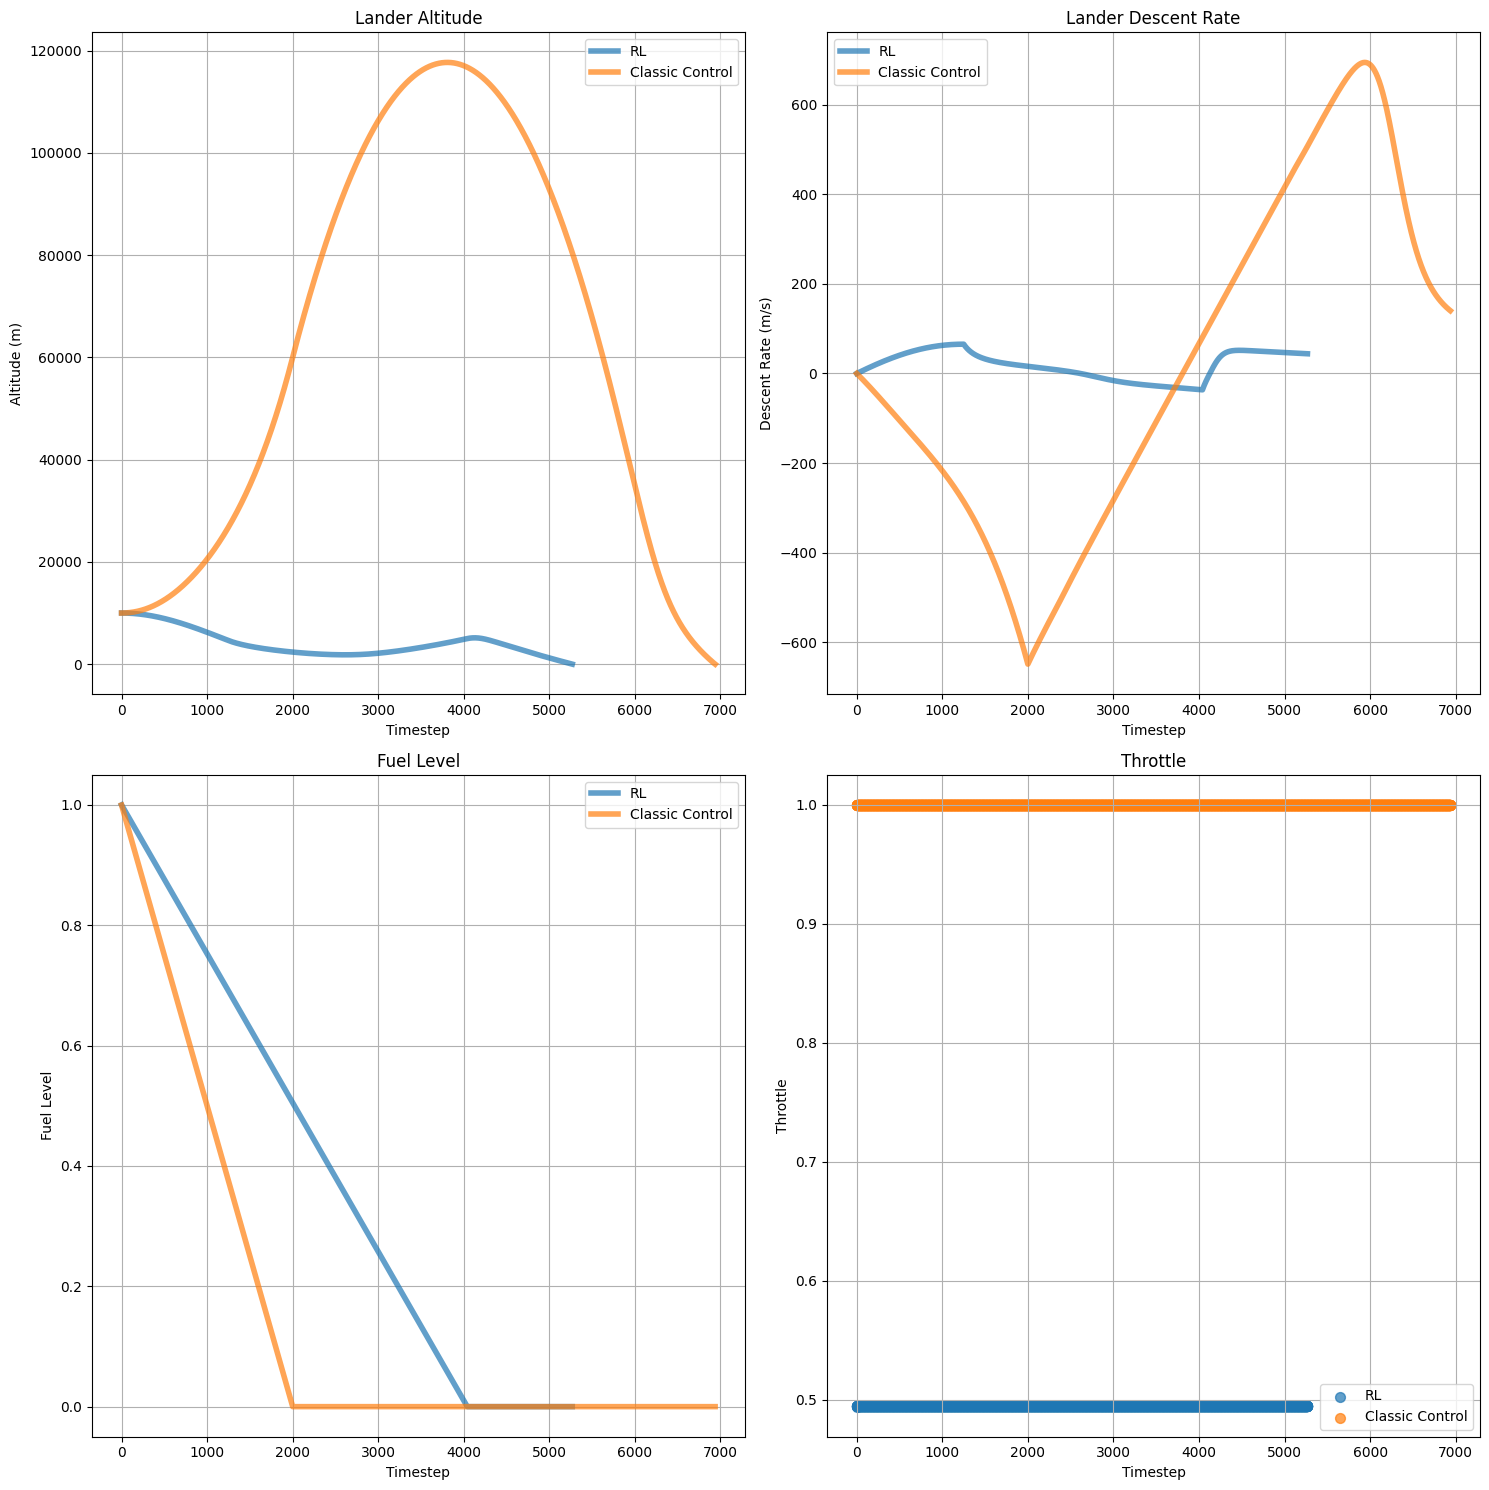
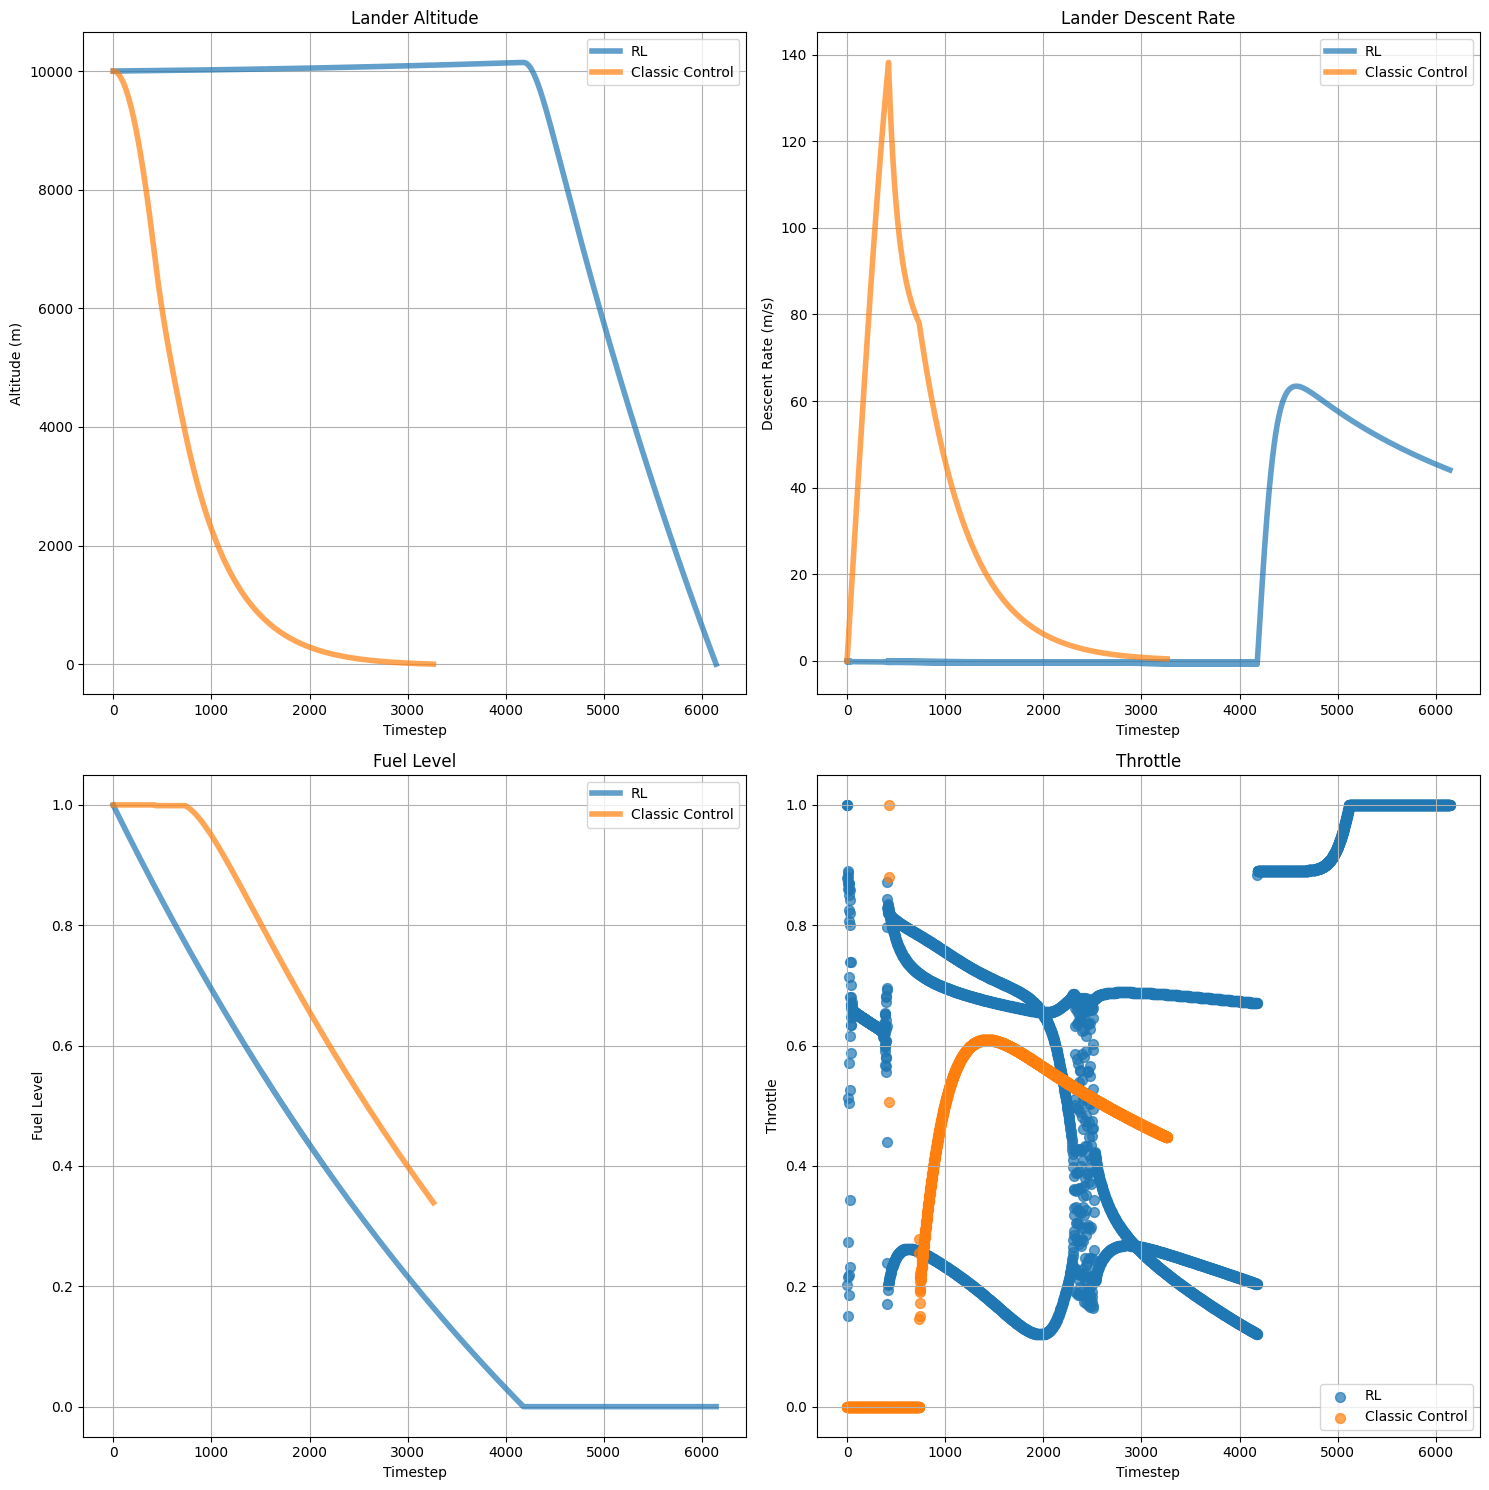
added sparse rewards

diff --git a/src/lander_py/benchmark_agents.py b/src/lander_py/benchmark_agents.py
@@ -138,93 +138,6 @@ def plot_single_episode_comparison(rl_data, classic_data):
 
 
 # %%
-# def run_multiple_comparison_episodes(model_path, n_episodes=10, max_steps=10000):
-#     from stable_baselines3 import PPO
-
-#     model = PPO.load(model_path)
-
-#     rl_data = {
-#         "returns": [],
-#         "mean_rewards": [],
-#         "episode_lengths": [],
-#         "final_altitudes": [],
-#         "final_descent_rates": [],
-#         "final_fuel_levels": [],
-#     }
-
-#     classic_data = {
-#         "returns": [],
-#         "mean_rewards": [],
-#         "episode_lengths": [],
-#         "final_altitudes": [],
-#         "final_descent_rates": [],
-#         "final_fuel_levels": [],
-#     }
-
-#     for episode in range(n_episodes):
-#         for policy_type in ["rl", "classic"]:
-#             env = LanderEnv()
-#             observation, _ = env.reset()
-#             total_reward = 0
-#             rewards = []
-
-#             for step in range(max_steps):
-#                 if policy_type == "rl":
-#                     model_action, _ = model.predict(observation, deterministic=True)
-#                 else:
-#                     real_action = env.landing_control_policy(
-#                         position_array=observation[0:3],
-#                         velocity_array=observation[3:6],
-#                         altitude=observation[7],
-#                     )
-#                     model_action = env.action_space_real_to_model(real_action)
-
-#                 observation, reward, terminated, truncated, info = env.step(
-#                     model_action
-#                 )
-#                 total_reward += reward
-
-#                 if step % 5 == 10:
-#                     print(f"reward is {reward} at step {step}")
-
-#                 rewards.append(reward)
-
-#                 if terminated or truncated:
-#                     break
-
-#             data = rl_data if policy_type == "rl" else classic_data
-#             data["returns"].append(total_reward)
-#             data["mean_rewards"].append(np.mean(rewards))
-#             data["episode_lengths"].append(step + 1)
-#             data["final_altitudes"].append(info["altitude"])
-#             data["final_descent_rates"].append(-info["climb_speed"])
-#             data["final_fuel_levels"].append(info["fuel"])
-
-#     for policy_type, data in [("RL Agent", rl_data), ("Classic Control", classic_data)]:
-#         print(f"\n{policy_type} Performance:")
-#         print(
-#             f"Average Return: {np.mean(data['returns']):.4f} (±{np.std(data['returns']):.4f})"
-#         )
-#         print(
-#             f"Average Mean Reward: {np.mean(data['mean_rewards']):.4f} (±{np.std(data['mean_rewards']):.4f})"
-#         )
-#         print(
-#             f"Average Episode Length: {np.mean(data['episode_lengths']):.2f} (±{np.std(data['episode_lengths']):.2f})"
-#         )
-#         print(
-#             f"Average Final Altitude: {np.mean(data['final_altitudes']):.2f} (±{np.std(data['final_altitudes']):.2f})"
-#         )
-#         print(
-#             f"Average Final Descent Rate: {np.mean(data['final_descent_rates']):.2f} (±{np.std(data['final_descent_rates']):.2f})"
-#         )
-#         print(
-#             f"Average Final Fuel Level: {np.mean(data['final_fuel_levels']):.4f} (±{np.std(data['final_fuel_levels']):.4f})"
-#         )
-
-#     return rl_data, classic_data
-
-
-# %%
 
 
 def run_multiple_comparison_episodes(model_path, n_episodes=10, max_steps=10000):
@@ -329,7 +242,7 @@ def run_multiple_comparison_episodes(model_path, n_episodes=10, max_steps=10000)
 
 # %%
 def main():
-    model_path = "./src/lander_py/ppo_base_long"
+    model_path = "./src/lander_py/ppo_sparse_long_4"
     rl_data, classic_data = run_single_comparison_episode(model_path)
     plot_single_episode_comparison(rl_data, classic_data)
     run_multiple_comparison_episodes(model_path, n_episodes=10)

diff --git a/src/lander_py/train.py b/src/lander_py/train.py
@@ -22,20 +22,20 @@ env = LanderEnv()
 # normalize observations
 env = NormalizeObservation(env)
 # normalize rewards too
-env = NormalizeReward(env)
+# env = NormalizeReward(env)
 # wrap in a stable baselines Monitor class
 env = Monitor(env)
 
 
 # make the model much smaller, default is 64 to 64 for both actor and critic
-policy_kwargs = dict(net_arch=[4, 4])
+policy_kwargs = dict(net_arch=[16, 16])
 
 # Set up the model
 model = PPO(
     policy="MlpPolicy",
     env=env,
-    n_steps=8000,  # number of timesteps per environment, before next update. a little more than the legnth of one episode
-    learning_rate=4e-3,  # increase lr for smaller models
+    n_steps=7000,  # number of timesteps per environment, before next update. a little more than the legnth of one episode
+    learning_rate=4e-4,  # increase lr for smaller models
     batch_size=1000,
     n_epochs=20,
     # clip_range=0.3,  # allow bigger policy updates
@@ -57,7 +57,7 @@ all_timesteps = 512000
 steps = 0
 for i in range(0, all_timesteps, save_freq):
     model.learn(total_timesteps=save_freq, reset_num_timesteps=False)
-    model.save("./src/lander_py/ppo_base_long")
+    model.save("./src/lander_py/ppo_sparse_long_16_unnorm-reward")
     steps += save_freq
     print(f"Model saved at step {steps}")
 

diff --git a/src/lander_py/lander_env.py b/src/lander_py/lander_env.py
@@ -124,9 +124,13 @@ class LanderEnv(gym.Env):
         # model_observation = self.obs_space_real_to_model(real_observation)
 
         # define the reward
-        reward = self.energy_reward_function(
-            position_array=complete_state[1:4],
-            velocity_array=complete_state[4:7],
+        # reward = self.energy_reward_function(
+        #     position_array=complete_state[1:4],
+        #     velocity_array=complete_state[4:7],
+        # )
+
+        reward = self.sparse_reward_function(
+            landed=self.lander.is_landed(), crashed=self.lander.is_crashed()
         )
 
         # print("reward is ", reward, " altitude ", complete_state[11])
@@ -254,12 +258,12 @@ class LanderEnv(gym.Env):
         # return reward - constant
         return reward
 
-    # def sparse_reward_function(self, landed, crashed):
-    #     if landed:
-    #         return 10000
-    #     elif crashed:
-    #         return -10000
-    #     return -1
+    def sparse_reward_function(self, landed, crashed):
+        if landed:
+            return 10000
+        elif crashed:
+            return -10000
+        return -1
 
     def action_space_model_to_real(self, model):
         """transform on model action space to real action space

diff --git a/README.md b/README.md
@@ -146,11 +146,12 @@ Previously, the repo used a flag to selectively declare variables. All variables
 - Normalizing action space
 - Normalizing rewards to be positive
     - Agent can't cheat by trying to die as fast as possible
+- Discrete Action space instead of continuous?
 
 ### Normalization
 
-- Really crucial to normalize observations space, especially when observations have a large range
-    - the `gym` package's `NormalizeObservations` wrapper environment is key for this!
+- **Really** crucial to normalize observations space, especially when observations have a large range
+    - the `gym` package's `NormalizeObservations` wrapper environment is very convenient for this!
     - keeps a running mean of the observation, but note that the way it does this is by wrapping around the `step` function
     - this is why for plotting, you only plot stuff defined in the `step` function for info
         - important things like the un-normalized observations
